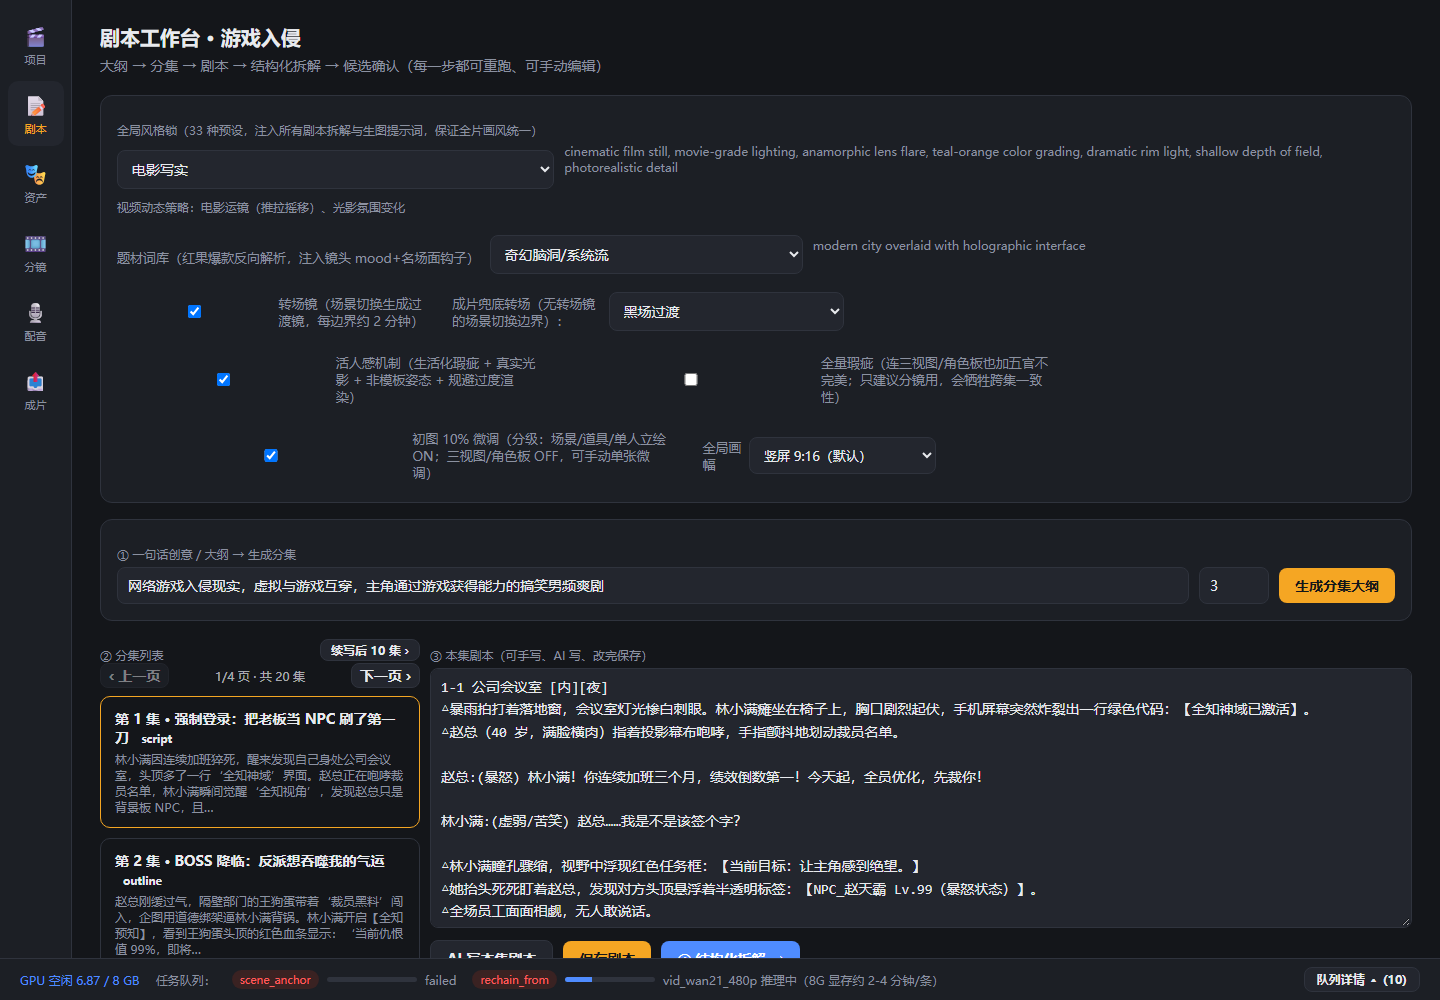
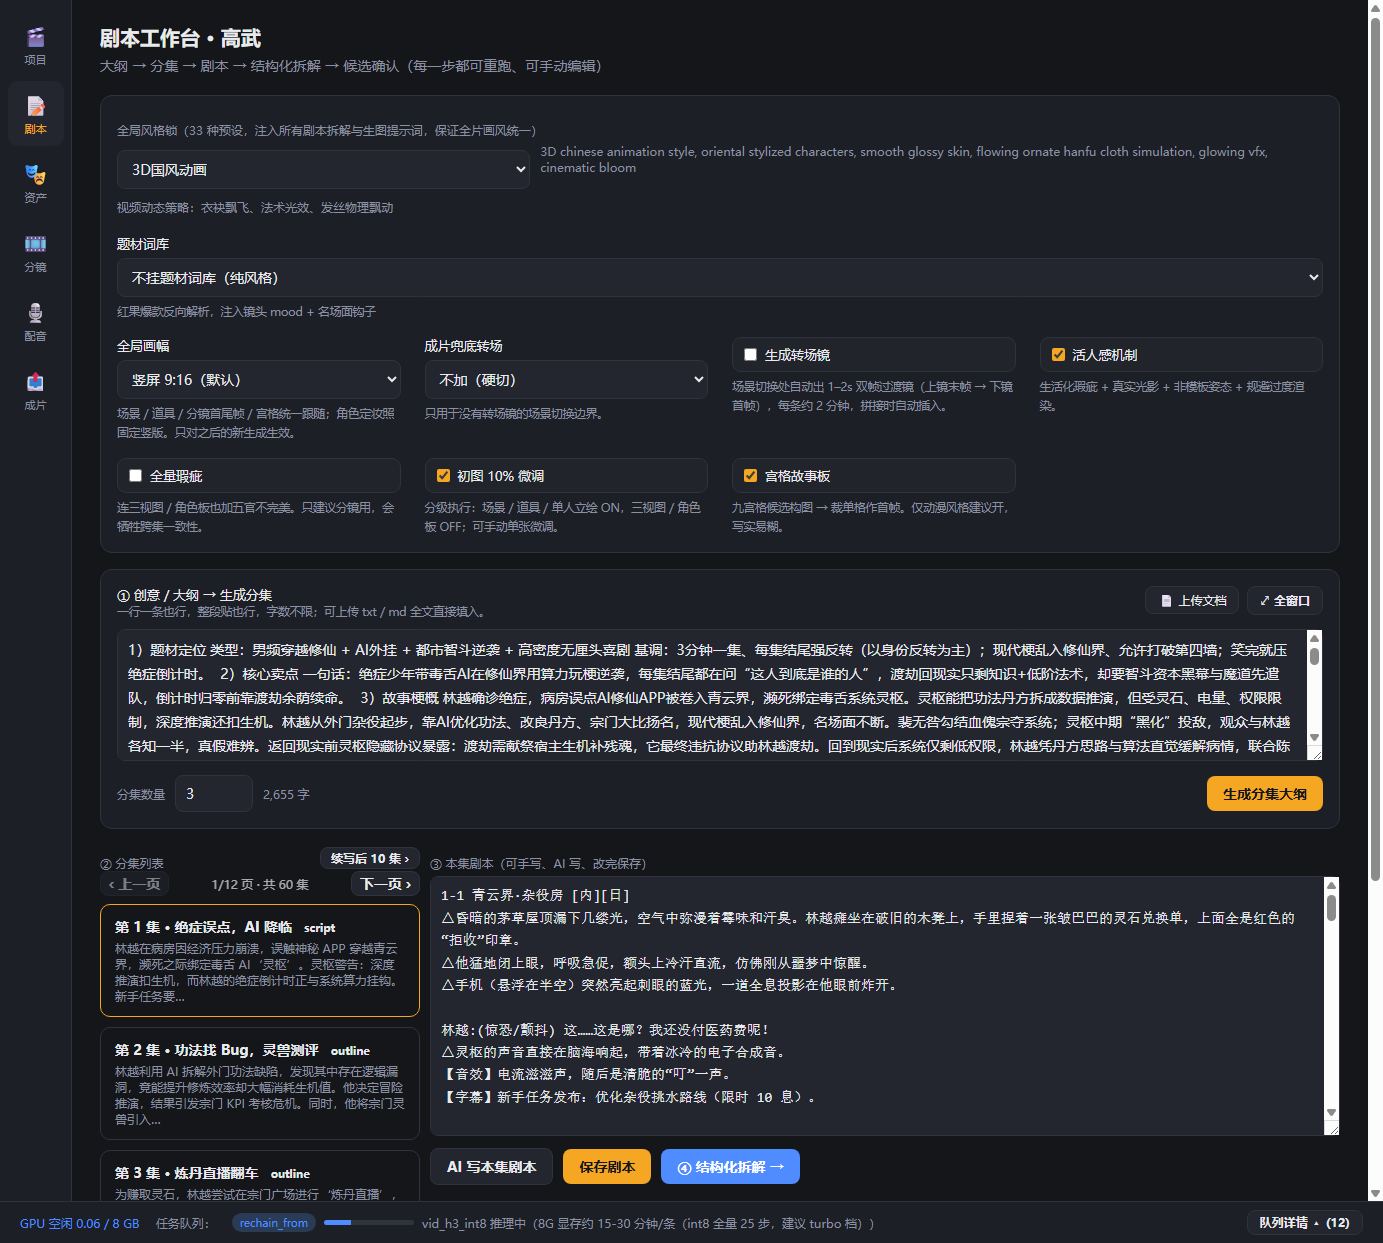
README 同步 #92/#93：补队列 interrupted 语义+ComfyUI 自启/看门狗+任务栏对账、大纲输入多行/全窗口/上传txt（UTF-8↔GB18030）、两列设置区；更新剧本页演示截图与架构页数描述

diff --git a/README.md b/README.md
@@ -31,7 +31,7 @@
 
 | 模块 | 功能 | 技术 |
 |---|---|---|
-| 剧本工坊 | 一句话 → 高概念 → 分集大纲 → 标准剧本（场号/△动作行/紧凑对白/音效字幕）；**集数硬保证**（分批生成+自动补齐，最高 60 集，LLM 偷懒也凑满）；**续写分集**（保留已有集接写后 10 集，逐集自动 AI 写剧本，单集失败可单独重试）；分集列表分页浏览 | 本地 Ollama (qwen) |
+| 剧本工坊 | 一句话 → 高概念 → 分集大纲 → 标准剧本（场号/△动作行/紧凑对白/音效字幕）；**集数硬保证**（分批生成+自动补齐，最高 60 集，LLM 偷懒也凑满）；**续写分集**（保留已有集接写后 10 集，逐集自动 AI 写剧本，单集失败可单独重试）；分集列表分页浏览；**大纲输入支持多行文本 + 全窗口弹层编辑（不设字数上限）+ 上传本地 txt/md 全文自动填入**（UTF-8 优先、乱码回落 GB18030，兼容国内 GBK 小说文本） | 本地 Ollama (qwen) |
 | 导演拆解 | **大师级导演/编剧分镜**：12 条专业覆盖语法（定场镜/正反打+过肩/180° 轴线锁视线/反应镜/插入镜/cut-on-action）+ **竖屏留存波形节奏编排**（hook 开场钩子→压迫→激化→反转峰值→集尾 cliffhanger 五段情绪循环，拍点张力词直落提示词）+ 运镜多样性启发式兜底；角色**国家/地区形象**槽位（11 预设） | 规则解析 + LLM |
 
 ### 二、提示词词库引擎（双层正交叠加）
@@ -77,8 +77,8 @@
 
 | 模块 | 功能 | 技术 |
 |---|---|---|
-| 任务系统 | 串行队列 + SSE 实时进度 + 页面重开任务回放 + 暂停/取消/失败重试 + 显存感知选档（8GB 友好） | FastAPI + SSE |
-| 可视化 | 分镜时间轴（镜头卡：参考图/提示词/参数全溯源）、参考溯源窗口（可换角色/场景参考）、提示词模板编辑器、全局画幅设置（16:9/21:9/4:3/9:16/3:4/1:1） | React + Vite |
+| 任务系统 | 串行队列 + SSE 实时进度 + 页面重开任务回放（重连全量对账 + 15s 兜底轮询，防断线旧快照）+ 暂停/取消/继续；三态区分 `failed`（真实报错）与 `interrupted`（服务重启/离线/ComfyUI 不可达，参数保留可继续）；显存感知选档（8GB 友好） | FastAPI + SSE |
+| 可视化 | 分镜时间轴（镜头卡：参考图/提示词/参数全溯源）、参考溯源窗口（可换角色/场景参考）、提示词模板编辑器、全局画幅设置（16:9/21:9/4:3/9:16/3:4/1:1）；生成设置区为两列自适应网格（标题→控件→说明三段式，开关做状态卡片，开启高亮） | React + Vite |
 | 图片增强 | 单张超分放大（upscale 工作流）、初图 10% 自动微调 | ComfyUI |
 
 ## 方法论（内建于代码，非文档）
@@ -100,6 +100,8 @@
 - **成片拼接参数自适应（#89）**：wan 旧片（480x832@16fps）与 H3 新片（768x1344@24fps）混合时 concat demuxer 必坏——导出前逐段 ffprobe 探测分辨率/帧率，全段一致走 `-c copy` 无损快路，混合参数走 concat filter（scale/pad 对齐首段 + fps 归一）NVENC 重编码一次；批量视频/重链/一键全流程均支持 `model_key` 直通（不传走全局默认，混拼成片依然稳）。注：视频原生音频在成片合成中按既有设计丢弃，音轨统一由 TTS 配音重建（InfiniteTalk 口型片音频与 TTS 同源，同步不受影响）。
 - **双模型提示词库 + 自强化（#90）**：拆解期生图按 **Qwen-Image 习惯**组词（自然语言长描述分层、文字渲染/版式跟随只给角色板与道具、场景图剔除文字指令防乱码）、生视频按 **MiniMax H3 习惯**组词（连续镜/运镜短语/动作分解/氛围音，全正向表述）。新增 `prompt_bank.json` 学习层：种子词块随代码内置，生成成功 kept+1、失败 failed+1，权重 = kept - 1.5*failed，实战提炼块优先于内置种子；`POST /api/prompt-bank/harvest` 扫描现存产物提炼词块（拦截画质尾巴/剧情 UI 词/跨族方言/光照词定性，视频库只收运镜-物理-氛围类，防"室内荧光灯"词块粘到"正午阳光"镜头）；视频侧同步剔除图像画质尾词与活人感锁（含否定句，H3 cfg=1 无效），180° 轴线提示改正向表述。API：`GET /api/prompt-bank`（权重视图）、`POST /api/prompt-bank/chunk`（手动增删）。
 - **首帧底模按风格族对齐（#91）**：分镜首帧必须走 SDXL IPAdapter 锁脸通道，但底模此前只传 `style_family` 不点名——3D 国风在 SDXL 池内没有任何模型带 `3d` 标签，匹配落空后按档位平局取字典首个 = AnythingXL 动漫底模，于是 3D 项目首帧出成 2D 动漫人物；H3/Wan 是 I2V，直接继承首帧像素 → 视频角色与 Qwen-Image 生成的角色板"换人换画风"。现按风格族点名底模（3d/photo → RealVisXL 写实、anime/paint → AnythingXL），写实负面锁（different face / plastic skin / distorted face）同步扩展到 3D；三视图裁脸区域从 0.5×0.85 收到 0.36×0.72，只取头肩特写（原区域会把右侧全身像一起裁进参考图，IPAdapter 学成混合版式、锁脸信号被稀释），角色可另存纯脸 `face_lock_path` 钉死版本。实测：首帧与角色板同一张脸，视频第 0 帧与首帧逐像素级同源，1.2s 处无换脸无脸崩。注：IPA 权重 0.8 会把参考图构图（半身）带进首帧，要按分镜 wide shot 出建议降到 0.7。
+- **队列噪声治理与 interrupted 语义（#92）**：服务启动时的僵尸收尸旧逻辑把遗留 `running/pending` 一律标 `failed`——H3 单条 15–30 分钟，碰上改代码重启就凭空多一条红色失败（线上 45 条 failed 有 24 条是这个来源，队列里"失败进程一直出现"）。现改标 `interrupted`（琥珀「已中断」，参数原样保留，点「继续」按原参数重派；真实报错仍走 `failed`），并给了历史迁移脚本 `scripts/migrate_failed_to_interrupted.py`（默认预览、`--apply` 写库）。ComfyUI 不在时任务以 `httpx.ConnectError: All connection attempts failed` 收场，为此补了 `ComfyUI-Backend`（登录后 30s 拉起）与 `ComfyUI-Watchdog`（每 2 分钟探活 8188）两个计划任务，共用幂等脚本 `run_comfyui.vbs`（8188 已应答或已有 ComfyUI 进程即退出，防加载期重复拉起抢端口）。前端补 SSE 重连全量对账 + 15 秒兜底轮询，修掉断线后页面停在旧快照的"running 100%"假状态。
+- **大纲输入工程化（#93）**：单行 `input` 装不下整本设定——改多行 textarea（不设字数上限、可拖拽）、加全窗口弹层（Esc/点遮罩关闭、与主输入框实时双向同步）、加本地 txt/md 上传读取；编码先按 UTF-8 解码，替换符（\uFFFD）超 20 个即回落 `gb18030` 重解（国内 txt 多为 GBK，直读必整篇乱码，实测双编码均正确还原）。生成设置区由「7 个开关 + 2 个下拉」挤在一个 flex row（换行后 checkbox 与文案完全错位）改为两列自适应网格：每格标题→控件→说明三段式，开关做成带边框的状态卡片、开启琥珀高亮，长括号说明下沉为 hint 小字。
 - **双层模型方言层**：提示词从出生就长在目标模型的"母语"里——组装期按预判的下游模型组词（SDXL 短标签链 / Flux2-Klein 物理常识 / Qwen-Image 文字渲染 / Wan 动作分解式短语 / InfiniteTalk 口型同步微动作，SDXL 图像方言不泄漏进视频模型）；生成期再兜底一层（Wan 收 5s、短标签负面；Seedance 吃 `[Xs]` 节拍前缀；措辞按模型惯用语替换）。
 - **连续性三机制**：动作三拍（trigger/peak/aftermath 决定首帧/尾帧/关键帧取材）+ 180° 轴线警告 + 前后镜承接摘要。
 - **音色治理**：音色跨集唯一锁定 + 角色性别强匹配（女角色禁配男声）+ 11 种语气映射到语速/音调参数。
@@ -202,7 +204,7 @@ Register-ScheduledTask -TaskName "ComfyUI-Watchdog" -Action $a -Trigger $t2 -Set
 ### 生产流程（UI 引导式）
 
 1. **新建项目**：填一句话描述（自动带入剧本页）+ 选风格（30+ 预设）+ 全局画幅
-2. **剧本页**：生成分集大纲（集数硬保证）→ 写剧本 → 一键拆解（产出镜头卡 + 候选角色/场景/道具）；集数不够点「续写后 10 集」自动接写并逐集出剧本
+2. **剧本页**：生成分集大纲（集数硬保证）→ 写剧本 → 一键拆解（产出镜头卡 + 候选角色/场景/道具）；集数不够点「续写后 10 集」自动接写并逐集出剧本。大纲输入框支持多行粘贴 / 全窗口编辑（Esc 关闭）/ 上传 txt-md 全文，贴着现有设定写更省事
 3. **资产页**：确认候选 → 生成角色三视图（Qwen-Image 整张版式，可给角色设国家形象） / 场景 / 道具（角色音色自动分配，试听后锁定）
 4. **分镜页**：逐镜或批量出首帧（IPA 锁脸）→ 尾帧 → i2v 视频；说话镜自动走 InfiniteTalk 口型对齐
 5. **成片**：一键全流程 → TTS 配音 → 混音烧字幕 → 导出剪映草稿 / FCPXML
@@ -232,7 +234,7 @@ backend/
       vfx_vocab.py       # 特效词库（14 类特效镜识别：慢镜/金光/气浪/爆炸…）
   workflows/             # 13 个 ComfyUI API 工作流模板
 frontend/
-  src/App.jsx            # 单文件 React 应用（剧本/资产/分镜/成片四页面）
+  src/App.jsx            # 单文件 React 应用（项目/剧本/资产/分镜/配音/成片六页面）
 ```
 
 ## 已验证的低显存实测数据（RTX 4070 Laptop 8GB）
@@ -259,7 +261,7 @@ frontend/
 | 模块 | 截图 |
 |---|---|
 | 项目中心（一句话描述 → 全局画幅） | ![项目](docs/screenshots/01_projects.png) |
-| 剧本工坊（创意带入 / 风格锁 / 活人感开关） | ![剧本](docs/screenshots/02_script.png) |
+| 剧本工坊（多行大纲输入 / 全窗口编辑 / 上传 txt / 两列设置区） | ![剧本](docs/screenshots/02_script.png) |
 | 资产工坊（角色三视图 / 音色锁定） | ![资产](docs/screenshots/03_assets.png) |
 | 分镜时间轴（17 镜镜头卡 / 批量编排 / 说话镜） | ![分镜](docs/screenshots/04_storyboard.png) |
 | 成片导出（配音 / 混音 / 剪映 & FCPXML） | ![成片](docs/screenshots/05_export.png) |
